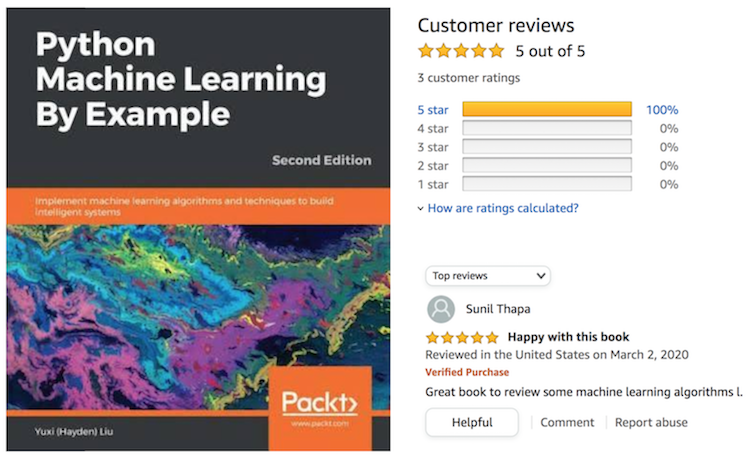
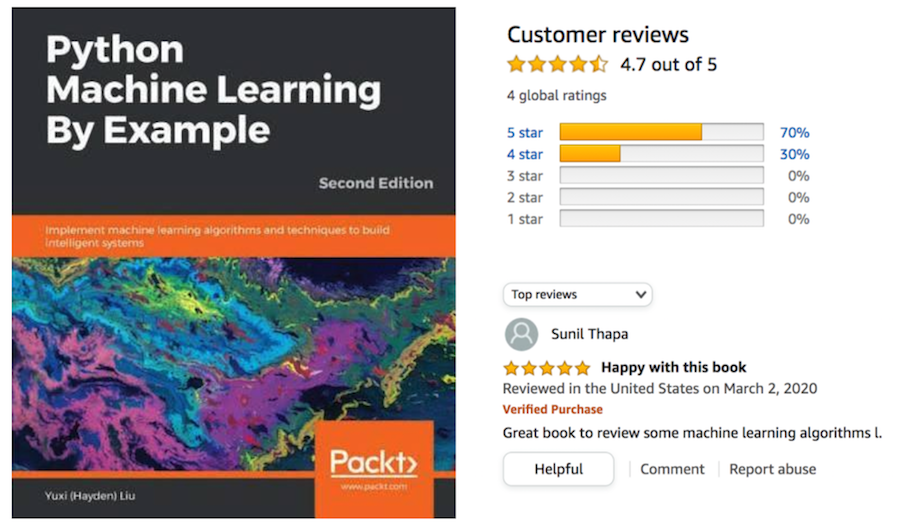
Site updated: 2020-09-20 20:34:23

diff --git a/python-machine-learning-by-example/index.html b/python-machine-learning-by-example/index.html
@@ -8,15 +8,15 @@
 
   <!-- Title -->
   
-  <title>Python Machine Learning by Example 2nd Edition - Hayden Liu</title>
+  <title>Python Machine Learning by Example - Hayden Liu</title>
 
   <!--Favicon-->
   <link rel="icon" href="favicon/favicon.ico">
 
   <!--Description-->
   
-      <meta name="description" content="Implement machine learning algorithms and techniques to build intelligent systems 
-TLDRThis is the 2nd edition of my best-selling book Python Machine ">
+      <meta name="description" content="The easiest way to get into machine learning 
+TLDRThis is my first published book and my best-selling book. In this book, you can grasp machine learni">
   
 
   <!--Author-->
@@ -90,48 +90,47 @@ TLDRThis is the 2nd edition of my best-selling book Python Machine ">
   		<div class="row">
   			
 <div class="col-lg-3 col-12 pt-3 px-4 pr-lg-5">
-  <h1>Python Machine Learning by Example 2nd Edition</h1>
+  <h1>Python Machine Learning by Example</h1>
 </div>
 <div class="col-lg-9 col-12 pt-lg-3 mb-4 pl-lg-5 px-lg-0 px-4 portfolio-content">
-  <h2 id="Implement-machine-learning-algorithms-and-techniques-to-build-intelligent-systems"><a href="#Implement-machine-learning-algorithms-and-techniques-to-build-intelligent-systems" class="headerlink" title="Implement machine learning algorithms and techniques to build intelligent systems"></a>Implement machine learning algorithms and techniques to build intelligent systems</h2><p><a href="https://www.amazon.com/Python-Machine-Learning-Example-Second-Edition-Hayden/dp/1789616727?utm_source=github&utm_medium=repository&utm_campaign=%22" target="_blank" rel="noopener"><img src="/images/pyml2_w_review.png" alt="cover"></a> </p>
-<h2 id="TLDR"><a href="#TLDR" class="headerlink" title="TLDR"></a>TLDR</h2><p>This is the 2nd edition of my best-selling book Python Machine Learning by Example. In this book, you can grasp machine learning concepts, techniques, and algorithms with the help of <strong>real-world examples and projects</strong> using Python libraries such as TensorFlow and scikit-learn</p>
+  <h2 id="The-easiest-way-to-get-into-machine-learning"><a href="#The-easiest-way-to-get-into-machine-learning" class="headerlink" title="The easiest way to get into machine learning"></a>The easiest way to get into machine learning</h2><p><a href="https://amzn.to/2FUbcwU" target="_blank" rel="noopener"><img src="/images/pyml_w_review.png" alt="cover"></a> </p>
+<h2 id="TLDR"><a href="#TLDR" class="headerlink" title="TLDR"></a>TLDR</h2><p>This is my first published book and my best-selling book. In this book, you can grasp machine learning concepts, techniques, and algorithms with the help of <strong>real-world examples and projects</strong> using Python libraries such as TensorFlow and scikit-learn</p>
 <ul>
-<li>Show me the <a href="https://github.com/haydenliu/Python-Machine-Learning-By-Example-Second-Edition" target="_blank" rel="noopener">code</a></li>
-<li>Preview or get it in <a href="https://www.amazon.com/Python-Machine-Learning-Example-Second-Edition-Hayden/dp/1789616727?utm_source=github&utm_medium=repository&utm_campaign=%22" target="_blank" rel="noopener">Amazon US</a>, <a href="https://www.amazon.in/Python-Machine-Learning-Example-Second-Edition-Hayden/dp/1789616727?utm_source=github&utm_medium=repository&utm_campaign=%22" target="_blank" rel="noopener">India</a>, <a href="https://www.amazon.co.uk/Python-Machine-Learning-Example-Second-Edition-Hayden/dp/1789616727?utm_source=github&utm_medium=repository&utm_campaign=%22" target="_blank" rel="noopener">UK</a>, <a href="https://www.amazon.ca/Python-Machine-Learning-Example-intelligent/dp/1789616727/ref=tmm_pap_swatch_0?_encoding=UTF8&qid=&sr=" target="_blank" rel="noopener">Canada</a>, or <a href="https://bit.ly/35ajHOL" target="_blank" rel="noopener">your local Amazon store</a></li>
-<li>Preview or get it in <a href="https://www.oreilly.com/library/view/python-machine-learning/9781789616729/" target="_blank" rel="noopener">O’Reilly</a>, <a href="https://www.packtpub.com/big-data-and-business-intelligence/python-machine-learning-example-second-edition" target="_blank" rel="noopener">Packt</a></li>
-<li>Preview or get it in <a href="https://play.google.com/store/books/details/Yuxi_Hayden_Liu_Python_Machine_Learning_By_Example?id=pgyLDwAAQBAJ" target="_blank" rel="noopener">Google Play</a></li>
+<li>Show me the <a href="https://github.com/haydenliu/Python-Machine-Learning-By-Example-Second-Edition" target="_blank" rel="noopener"><strong>code</strong></a></li>
+<li>Preview or get it in <a href="https://amzn.to/3iNijpi" target="_blank" rel="noopener"><strong>Amazon</strong> US</a>, <a href="https://www.amazon.in/Python-Machine-Learning-Example-Second-Edition-Hayden/dp/1789616727?utm_source=github&utm_medium=repository&utm_campaign=%22" target="_blank" rel="noopener">India</a>, <a href="https://www.amazon.co.uk/Python-Machine-Learning-Example-Second-Edition-Hayden/dp/1789616727?utm_source=github&utm_medium=repository&utm_campaign=%22" target="_blank" rel="noopener">UK</a>, <a href="https://www.amazon.ca/Python-Machine-Learning-Example-intelligent/dp/1789616727/ref=tmm_pap_swatch_0?_encoding=UTF8&qid=&sr=" target="_blank" rel="noopener">Canada</a>, or <a href="https://bit.ly/35ajHOL" target="_blank" rel="noopener">your local Amazon store</a></li>
+<li>Preview or get it in <a href="https://www.oreilly.com/library/view/python-machine-learning/9781789616729/" target="_blank" rel="noopener"><strong>O’Reilly</strong></a>, <a href="https://www.packtpub.com/big-data-and-business-intelligence/python-machine-learning-example-second-edition" target="_blank" rel="noopener"><strong>Packt</strong></a></li>
+<li>Preview or get it in <a href="https://play.google.com/store/books/details/Yuxi_Hayden_Liu_Python_Machine_Learning_By_Example?id=0nc5DwAAQBAJ" target="_blank" rel="noopener"><strong>Google Play</strong></a></li>
+<li>There is <a href="http://www.quantkorea.com/xe/?mid=comunity2&page=9&listStyle=webzine&document_srl=77886" target="_blank" rel="noopener">Korean version</a></li>
 </ul>
 <h2 id="Key-Features"><a href="#Key-Features" class="headerlink" title="Key Features"></a>Key Features</h2><ul>
-<li>Exploit the power of Python to explore the world of data mining and data analytics</li>
-<li>Discover machine learning algorithms to solve complex challenges faced by data scientists today</li>
-<li>Use Python libraries such as TensorFlow and Keras to create smart cognitive actions for your projects</li>
+<li>Learn the fundamentals of machine learning and build your own intelligent applications</li>
+<li>Master the art of building your own machine learning systems with this example-based practical guide</li>
+<li>Work with important classification and regression algorithms and other machine learning techniques</li>
 </ul>
-<h2 id="Book-Description"><a href="#Book-Description" class="headerlink" title="Book Description"></a>Book Description</h2><p>A surging interest in machine learning is due to the fact that it evolutionzies automation by learning patterns in data and using them to make predictions and decisions. Your ML journey starts with this book, as the second edition of the bestseller, Python Machine Learning By Example. </p>
-<p>Hayden’s unique insights and expertise introduce you to important ML concepts and implementations of algorithms in Python both from scratch and with libraries. Each chapter of the book walks you through an industry adopted application. With the help of realistic examples, you will find it intriguing to acquire mechanics of ML techniques in areas such as exploratory data analysis, feature engineering, classification, regression, clustering, and NLP - they are no more obscure as you thought.</p>
-<p>This critically extended and updated edition now includes implementation with trendy libraries including TensorFlow, gensim and Keras. The scikit-learn codes are also fully modernized. Even if you’ve read the last edition, you’ll still be delighted to find plenty of new content, for example, neural network, dimensionality reduction, topic modeling, large-scale learning with Spark and word embedding. </p>
-<p>Toward the end, you will gather a broad picture of the ML ecosystem and best practices of applying ML techniques to meet new opportunities in today’s world.</p>
+<h2 id="Book-Description"><a href="#Book-Description" class="headerlink" title="Book Description"></a>Book Description</h2><p>Data science and machine learning are some of the top buzzwords in the technical world today. A resurging interest in machine learning is due to the same factors that have made data mining and Bayesian analysis more popular than ever. This book is your entry point to machine learning.</p>
+<p>This book starts with an introduction to machine learning and the Python language and shows you how to complete the setup. Moving ahead, you will learn all the important concepts such as, exploratory data analysis, data preprocessing, feature extraction, data visualization and clustering, classification, regression and model performance evaluation. With the help of various projects included, you will find it intriguing to acquire the mechanics of several important machine learning algorithms - they are no more obscure as they thought. Also, you will be guided step by step to build your own models from scratch. Toward the end, you will gather a broad picture of the machine learning ecosystem and best practices of applying machine learning techniques.</p>
+<p>Through this book, you will learn to tackle data-driven problems and implement your solutions with the powerful yet simple language, Python. Interesting and easy-to-follow examples, to name some, news topic classification, spam email detection, online ad click-through prediction, stock prices forecast, will keep you glued till you reach your goal.</p>
 <h2 id="What-you-will-learn"><a href="#What-you-will-learn" class="headerlink" title="What you will learn"></a>What you will learn</h2><ul>
-<li>Understand the important concepts in machine learning and data science</li>
-<li>Use Python to explore the world of data mining and analytics</li>
-<li>Scale up model training using varied data complexities with Apache Spark</li>
-<li>Delve deep into text and NLP using Python libraries such NLTK and gensim</li>
-<li>Select and build an ML model and evaluate and optimize its performance</li>
-<li>Implement ML algorithms from scratch in Python, TensorFlow, and scikit-learn</li>
+<li>Exploit the power of Python to handle data extraction, manipulation, and exploration techniques</li>
+<li>Use Python to visualize data spread across multiple dimensions and extract useful features</li>
+<li>Dive deep into the world of analytics to predict situations correctly</li>
+<li>Implement machine learning classification and regression algorithms from scratch in Python</li>
+<li>Be amazed to see the algorithms in action</li>
+<li>Evaluate the performance of a machine learning model and optimize it</li>
+<li>Solve interesting real-world problems using machine learning and Python as the journey unfolds</li>
 </ul>
 <h2 id="Who-this-book-is-for"><a href="#Who-this-book-is-for" class="headerlink" title="Who this book is for"></a>Who this book is for</h2><p>If you’re a machine learning aspirant, data analyst, or data engineer highly passionate about machine learning and want to begin working on ML assignments, this book is for you. Prior knowledge of Python coding is assumed and basic familiarity with statistical concepts will be beneficial although not necessary.</p>
 <h2 id="Table-of-Contents"><a href="#Table-of-Contents" class="headerlink" title="Table of Contents"></a>Table of Contents</h2><ol>
-<li>Getting Started with Machine Learning and Python</li>
-<li>Exploring the 20 Newsgroups Dataset with Text Analysis Techniques</li>
-<li>Mining the 20 Newsgroups Dataset with Clustering and Topic Modeling Algorithms</li>
-<li>Detecting Spam Email with Naive Bayes</li>
-<li>Classifying News Topic with Support Vector Machine</li>
-<li>Predicting Online Ads Click-through with Tree-Based Algorithms</li>
-<li>Predicting Online Ads Click-through with Logistic Regression</li>
-<li>Scaling Up Prediction to Terabyte Click Logs</li>
-<li>Stock Price Prediction with Regression Algorithms</li>
-<li>Machine Learning Best Practices</li>
+<li>Getting Started with Python and Machine Learning</li>
+<li>Exploring the 20 newsgroups data set</li>
+<li>Spam email detection with Naïve Bayes</li>
+<li>News topic classification with Support Vector Machine</li>
+<li>Click-through prediction with tree-based algorithms</li>
+<li>Click-through rate prediction with logistic regression</li>
+<li>Stock prices prediction with regression algorithms</li>
+<li>Best practices</li>
 </ol>
-<h2 id="What-other-readers-said"><a href="#What-other-readers-said" class="headerlink" title="What other readers said"></a>What other readers said</h2><p><a href="https://www.amazon.com/Python-Machine-Learning-Example-Second-Edition-Hayden/dp/1789616727?utm_source=github&utm_medium=repository&utm_campaign=%22" target="_blank" rel="noopener"><img src="/images/pyml2_review.png" alt="review"></a></p>
+<h2 id="What-other-readers-said"><a href="#What-other-readers-said" class="headerlink" title="What other readers said"></a>What other readers said</h2><p><a href="https://amzn.to/2FUbcwU" target="_blank" rel="noopener"><img src="/images/pyml_review.png" alt="review"></a></p>
 <h2 id="In-the-end…"><a href="#In-the-end…" class="headerlink" title="In the end…"></a>In the end…</h2><p><a href="mailto:mlbookhayden@gmail.com">Let me know</a> if you are interested in reading or reviewing this book, or you want to chat about machine learning.</p>
 <p>You may also enjoy my other books:</p>
 <ul>

diff --git a/python-machine-learning-by-example-2nd-edition/index.html b/python-machine-learning-by-example-2nd-edition/index.html
@@ -16,7 +16,7 @@
   <!--Description-->
   
       <meta name="description" content="Implement machine learning algorithms and techniques to build intelligent systems 
-TLDRThis is the 2nd edition of my best-selling book Python Machine ">
+TLDRThis is the second edition of my best-selling book Python Machi">
   
 
   <!--Author-->
@@ -93,20 +93,21 @@ TLDRThis is the 2nd edition of my best-selling book Python Machine ">
   <h1>Python Machine Learning by Example 2nd Edition</h1>
 </div>
 <div class="col-lg-9 col-12 pt-lg-3 mb-4 pl-lg-5 px-lg-0 px-4 portfolio-content">
-  <h2 id="Implement-machine-learning-algorithms-and-techniques-to-build-intelligent-systems"><a href="#Implement-machine-learning-algorithms-and-techniques-to-build-intelligent-systems" class="headerlink" title="Implement machine learning algorithms and techniques to build intelligent systems"></a>Implement machine learning algorithms and techniques to build intelligent systems</h2><p><a href="https://www.amazon.com/Python-Machine-Learning-Example-Second-Edition-Hayden/dp/1789616727?utm_source=github&utm_medium=repository&utm_campaign=%22" target="_blank" rel="noopener"><img src="/images/pyml2_w_review.png" alt="cover"></a> </p>
-<h2 id="TLDR"><a href="#TLDR" class="headerlink" title="TLDR"></a>TLDR</h2><p>This is the 2nd edition of my best-selling book Python Machine Learning by Example. In this book, you can grasp machine learning concepts, techniques, and algorithms with the help of <strong>real-world examples and projects</strong> using Python libraries such as TensorFlow and scikit-learn</p>
+  <h2 id="Implement-machine-learning-algorithms-and-techniques-to-build-intelligent-systems"><a href="#Implement-machine-learning-algorithms-and-techniques-to-build-intelligent-systems" class="headerlink" title="Implement machine learning algorithms and techniques to build intelligent systems"></a>Implement machine learning algorithms and techniques to build intelligent systems</h2><p><a href="https://amzn.to/3iNijpi" target="_blank" rel="noopener"><img src="/images/pyml2_w_review.png" alt="cover"></a> </p>
+<h2 id="TLDR"><a href="#TLDR" class="headerlink" title="TLDR"></a>TLDR</h2><p>This is the second edition of my best-selling book <a href="/python-machine-learning-by-example/">Python Machine Learning by Example</a>. In this book, you can grasp machine learning concepts, techniques, and algorithms with the help of <strong>real-world examples and projects</strong> using Python libraries such as TensorFlow and scikit-learn</p>
 <ul>
-<li>Show me the <a href="https://github.com/haydenliu/Python-Machine-Learning-By-Example-Second-Edition" target="_blank" rel="noopener">code</a></li>
-<li>Preview or get it in <a href="https://www.amazon.com/Python-Machine-Learning-Example-Second-Edition-Hayden/dp/1789616727?utm_source=github&utm_medium=repository&utm_campaign=%22" target="_blank" rel="noopener">Amazon US</a>, <a href="https://www.amazon.in/Python-Machine-Learning-Example-Second-Edition-Hayden/dp/1789616727?utm_source=github&utm_medium=repository&utm_campaign=%22" target="_blank" rel="noopener">India</a>, <a href="https://www.amazon.co.uk/Python-Machine-Learning-Example-Second-Edition-Hayden/dp/1789616727?utm_source=github&utm_medium=repository&utm_campaign=%22" target="_blank" rel="noopener">UK</a>, <a href="https://www.amazon.ca/Python-Machine-Learning-Example-intelligent/dp/1789616727/ref=tmm_pap_swatch_0?_encoding=UTF8&qid=&sr=" target="_blank" rel="noopener">Canada</a>, or <a href="https://bit.ly/35ajHOL" target="_blank" rel="noopener">your local Amazon store</a></li>
-<li>Preview or get it in <a href="https://www.oreilly.com/library/view/python-machine-learning/9781789616729/" target="_blank" rel="noopener">O’Reilly</a>, <a href="https://www.packtpub.com/big-data-and-business-intelligence/python-machine-learning-example-second-edition" target="_blank" rel="noopener">Packt</a></li>
-<li>Preview or get it in <a href="https://play.google.com/store/books/details/Yuxi_Hayden_Liu_Python_Machine_Learning_By_Example?id=pgyLDwAAQBAJ" target="_blank" rel="noopener">Google Play</a></li>
+<li>Show me the <a href="https://github.com/haydenliu/Python-Machine-Learning-By-Example-Second-Edition" target="_blank" rel="noopener"><strong>code</strong></a></li>
+<li>Preview or get it in <a href="https://amzn.to/3iNijpi" target="_blank" rel="noopener"><strong>Amazon</strong> US</a>, <a href="https://www.amazon.in/Python-Machine-Learning-Example-Second-Edition-Hayden/dp/1789616727?utm_source=github&utm_medium=repository&utm_campaign=%22" target="_blank" rel="noopener">India</a>, <a href="https://www.amazon.co.uk/Python-Machine-Learning-Example-Second-Edition-Hayden/dp/1789616727?utm_source=github&utm_medium=repository&utm_campaign=%22" target="_blank" rel="noopener">UK</a>, <a href="https://www.amazon.ca/Python-Machine-Learning-Example-intelligent/dp/1789616727/ref=tmm_pap_swatch_0?_encoding=UTF8&qid=&sr=" target="_blank" rel="noopener">Canada</a>, or <a href="https://bit.ly/35ajHOL" target="_blank" rel="noopener">your local Amazon store</a></li>
+<li>Preview or get it in <a href="https://www.oreilly.com/library/view/python-machine-learning/9781789616729/" target="_blank" rel="noopener"><strong>O’Reilly</strong></a>, <a href="https://www.packtpub.com/big-data-and-business-intelligence/python-machine-learning-example-second-edition" target="_blank" rel="noopener"><strong>Packt</strong></a></li>
+<li>Preview or get it in <a href="https://play.google.com/store/books/details/Yuxi_Hayden_Liu_Python_Machine_Learning_By_Example?id=pgyLDwAAQBAJ" target="_blank" rel="noopener"><strong>Google Play</strong></a></li>
+<li>There is <a href="https://www.amazon.co.jp/gp/product/4254122446/ref=dbs_a_def_rwt_bibl_vppi_i6" target="_blank" rel="noopener">Japanese version</a></li>
 </ul>
 <h2 id="Key-Features"><a href="#Key-Features" class="headerlink" title="Key Features"></a>Key Features</h2><ul>
 <li>Exploit the power of Python to explore the world of data mining and data analytics</li>
 <li>Discover machine learning algorithms to solve complex challenges faced by data scientists today</li>
 <li>Use Python libraries such as TensorFlow and Keras to create smart cognitive actions for your projects</li>
 </ul>
-<h2 id="Book-Description"><a href="#Book-Description" class="headerlink" title="Book Description"></a>Book Description</h2><p>A surging interest in machine learning is due to the fact that it evolutionzies automation by learning patterns in data and using them to make predictions and decisions. Your ML journey starts with this book, as the second edition of the bestseller, Python Machine Learning By Example. </p>
+<h2 id="Book-Description"><a href="#Book-Description" class="headerlink" title="Book Description"></a>Book Description</h2><p>A surging interest in machine learning is due to the fact that it evolutionizes automation by learning patterns in data and using them to make predictions and decisions. Your ML journey starts with this book, as the second edition of the bestseller, Python Machine Learning By Example. </p>
 <p>Hayden’s unique insights and expertise introduce you to important ML concepts and implementations of algorithms in Python both from scratch and with libraries. Each chapter of the book walks you through an industry adopted application. With the help of realistic examples, you will find it intriguing to acquire mechanics of ML techniques in areas such as exploratory data analysis, feature engineering, classification, regression, clustering, and NLP - they are no more obscure as you thought.</p>
 <p>This critically extended and updated edition now includes implementation with trendy libraries including TensorFlow, gensim and Keras. The scikit-learn codes are also fully modernized. Even if you’ve read the last edition, you’ll still be delighted to find plenty of new content, for example, neural network, dimensionality reduction, topic modeling, large-scale learning with Spark and word embedding. </p>
 <p>Toward the end, you will gather a broad picture of the ML ecosystem and best practices of applying ML techniques to meet new opportunities in today’s world.</p>
@@ -131,14 +132,14 @@ TLDRThis is the 2nd edition of my best-selling book Python Machine ">
 <li>Stock Price Prediction with Regression Algorithms</li>
 <li>Machine Learning Best Practices</li>
 </ol>
-<h2 id="What-other-readers-said"><a href="#What-other-readers-said" class="headerlink" title="What other readers said"></a>What other readers said</h2><p><a href="https://www.amazon.com/Python-Machine-Learning-Example-Second-Edition-Hayden/dp/1789616727?utm_source=github&utm_medium=repository&utm_campaign=%22" target="_blank" rel="noopener"><img src="/images/pyml2_review.png" alt="review"></a></p>
+<h2 id="What-other-readers-said"><a href="#What-other-readers-said" class="headerlink" title="What other readers said"></a>What other readers said</h2><p><a href="https://amzn.to/3iNijpi" target="_blank" rel="noopener"><img src="/images/pyml2_review.png" alt="review"></a></p>
 <h2 id="In-the-end…"><a href="#In-the-end…" class="headerlink" title="In the end…"></a>In the end…</h2><p><a href="mailto:mlbookhayden@gmail.com">Let me know</a> if you are interested in reading or reviewing this book, or you want to chat about machine learning.</p>
 <p>You may also enjoy my other books:</p>
 <ul>
-<li><a href="https://www.amazon.com/gp/product/1838551964/ref=dbs_a_def_rwt_hsch_vapi_tpbk_p1_i0" target="_blank" rel="noopener">PyTorch 1.x Reinforcement Learning Cookbook</a></li>
-<li><a href="https://www.amazon.com/gp/product/1788998081/ref=dbs_a_def_rwt_hsch_vapi_tpbk_p1_i1" target="_blank" rel="noopener">Hands-On Deep Learning Architectures with Python</a></li>
+<li><a href="https://amzn.to/35RrWj5" target="_blank" rel="noopener">PyTorch 1.x Reinforcement Learning Cookbook</a></li>
+<li><a href="https://amzn.to/2FQ25NE" target="_blank" rel="noopener">Hands-On Deep Learning Architectures with Python</a></li>
 <li><a href="https://www.packtpub.com/big-data-and-business-intelligence/step-step-machine-learning-python-video" target="_blank" rel="noopener">Step-by-Step Machine Learning with Python</a></li>
-<li><a href="https://www.amazon.com/gp/product/1788478401/ref=dbs_a_def_rwt_hsch_vapi_tpbk_p1_i5" target="_blank" rel="noopener">R Deep Learning Projects</a></li>
+<li><a href="https://amzn.to/3hHUVIA" target="_blank" rel="noopener">R Deep Learning Projects</a></li>
 </ul>
 <p>Happy reading and learning!</p>
 

diff --git a/archives/index.html b/archives/index.html
@@ -114,19 +114,6 @@
 
     <div class="col-md-6 col-12 mb-5">
   <div class="hovereffect">
-    <a href="/python-machine-learning-by-example/">
-      <img class="img-fluid scale-img" src="/images/pyml2.jpg" alt="Python Machine Learning by Example 2nd Edition">
-      <span>Python Machine Learning by Example 2nd Edition</span>
-      <div class="overlay">
-        <span class="overlay-text">Python Machine Learning by Example 2nd Edition</span>
-      </div>
-    </a>
-  </div>
-</div>
-
-
-    <div class="col-md-6 col-12 mb-5">
-  <div class="hovereffect">
     <a href="/about/">
       <img class="img-fluid scale-img" src="/images/about_me.png" alt="About Me">
       <span>About Me</span>
@@ -145,6 +132,19 @@
       <span>Hands-On Deep Learning Architectures with Python</span>
       <div class="overlay">
         <span class="overlay-text">Hands-On Deep Learning Architectures with Python</span>
+      </div>
+    </a>
+  </div>
+</div>
+
+
+    <div class="col-md-6 col-12 mb-5">
+  <div class="hovereffect">
+    <a href="/python-machine-learning-by-example/">
+      <img class="img-fluid scale-img" src="/images/pyml.jpg" alt="Python Machine Learning by Example">
+      <span>Python Machine Learning by Example</span>
+      <div class="overlay">
+        <span class="overlay-text">Python Machine Learning by Example</span>
       </div>
     </a>
   </div>

diff --git a/index.html b/index.html
@@ -114,19 +114,6 @@
 
     <div class="col-md-6 col-12 mb-5">
   <div class="hovereffect">
-    <a href="/python-machine-learning-by-example/">
-      <img class="img-fluid scale-img" src="/images/pyml2.jpg" alt="Python Machine Learning by Example 2nd Edition">
-      <span>Python Machine Learning by Example 2nd Edition</span>
-      <div class="overlay">
-        <span class="overlay-text">Python Machine Learning by Example 2nd Edition</span>
-      </div>
-    </a>
-  </div>
-</div>
-
-
-    <div class="col-md-6 col-12 mb-5">
-  <div class="hovereffect">
     <a href="/about/">
       <img class="img-fluid scale-img" src="/images/about_me.png" alt="About Me">
       <span>About Me</span>
@@ -145,6 +132,19 @@
       <span>Hands-On Deep Learning Architectures with Python</span>
       <div class="overlay">
         <span class="overlay-text">Hands-On Deep Learning Architectures with Python</span>
+      </div>
+    </a>
+  </div>
+</div>
+
+
+    <div class="col-md-6 col-12 mb-5">
+  <div class="hovereffect">
+    <a href="/python-machine-learning-by-example/">
+      <img class="img-fluid scale-img" src="/images/pyml.jpg" alt="Python Machine Learning by Example">
+      <span>Python Machine Learning by Example</span>
+      <div class="overlay">
+        <span class="overlay-text">Python Machine Learning by Example</span>
       </div>
     </a>
   </div>

diff --git a/archives/2018/07/index.html b/archives/2018/07/index.html
@@ -88,24 +88,11 @@
   			
     <div class="col-md-6 col-12 mb-5">
   <div class="hovereffect">
-    <a href="/free-gpu-for-deep-learning/">
-      <img class="img-fluid scale-img" src="/images/colab6.png" alt="Free GPU for Deep Learning">
-      <span>Free GPU for Deep Learning</span>
+    <a href="/python-machine-learning-by-example/">
+      <img class="img-fluid scale-img" src="/images/pyml.jpg" alt="Python Machine Learning by Example">
+      <span>Python Machine Learning by Example</span>
       <div class="overlay">
-        <span class="overlay-text">Free GPU for Deep Learning</span>
-      </div>
-    </a>
-  </div>
-</div>
-
-
-    <div class="col-md-6 col-12 mb-5">
-  <div class="hovereffect">
-    <a href="/python-machine-learning-by-example-2nd-edition/">
-      <img class="img-fluid scale-img" src="/images/pyml2.jpg" alt="Python Machine Learning by Example 2nd Edition">
-      <span>Python Machine Learning by Example 2nd Edition</span>
-      <div class="overlay">
-        <span class="overlay-text">Python Machine Learning by Example 2nd Edition</span>
+        <span class="overlay-text">Python Machine Learning by Example</span>
       </div>
     </a>
   </div>

diff --git a/archives/2018/index.html b/archives/2018/index.html
@@ -88,24 +88,11 @@
   			
     <div class="col-md-6 col-12 mb-5">
   <div class="hovereffect">
-    <a href="/free-gpu-for-deep-learning/">
-      <img class="img-fluid scale-img" src="/images/colab6.png" alt="Free GPU for Deep Learning">
-      <span>Free GPU for Deep Learning</span>
+    <a href="/python-machine-learning-by-example/">
+      <img class="img-fluid scale-img" src="/images/pyml.jpg" alt="Python Machine Learning by Example">
+      <span>Python Machine Learning by Example</span>
       <div class="overlay">
-        <span class="overlay-text">Free GPU for Deep Learning</span>
-      </div>
-    </a>
-  </div>
-</div>
-
-
-    <div class="col-md-6 col-12 mb-5">
-  <div class="hovereffect">
-    <a href="/python-machine-learning-by-example-2nd-edition/">
-      <img class="img-fluid scale-img" src="/images/pyml2.jpg" alt="Python Machine Learning by Example 2nd Edition">
-      <span>Python Machine Learning by Example 2nd Edition</span>
-      <div class="overlay">
-        <span class="overlay-text">Python Machine Learning by Example 2nd Edition</span>
+        <span class="overlay-text">Python Machine Learning by Example</span>
       </div>
     </a>
   </div>

diff --git a/archives/2020/index.html b/archives/2020/index.html
@@ -114,19 +114,6 @@
 
     <div class="col-md-6 col-12 mb-5">
   <div class="hovereffect">
-    <a href="/python-machine-learning-by-example/">
-      <img class="img-fluid scale-img" src="/images/pyml2.jpg" alt="Python Machine Learning by Example 2nd Edition">
-      <span>Python Machine Learning by Example 2nd Edition</span>
-      <div class="overlay">
-        <span class="overlay-text">Python Machine Learning by Example 2nd Edition</span>
-      </div>
-    </a>
-  </div>
-</div>
-
-
-    <div class="col-md-6 col-12 mb-5">
-  <div class="hovereffect">
     <a href="/about/">
       <img class="img-fluid scale-img" src="/images/about_me.png" alt="About Me">
       <span>About Me</span>
